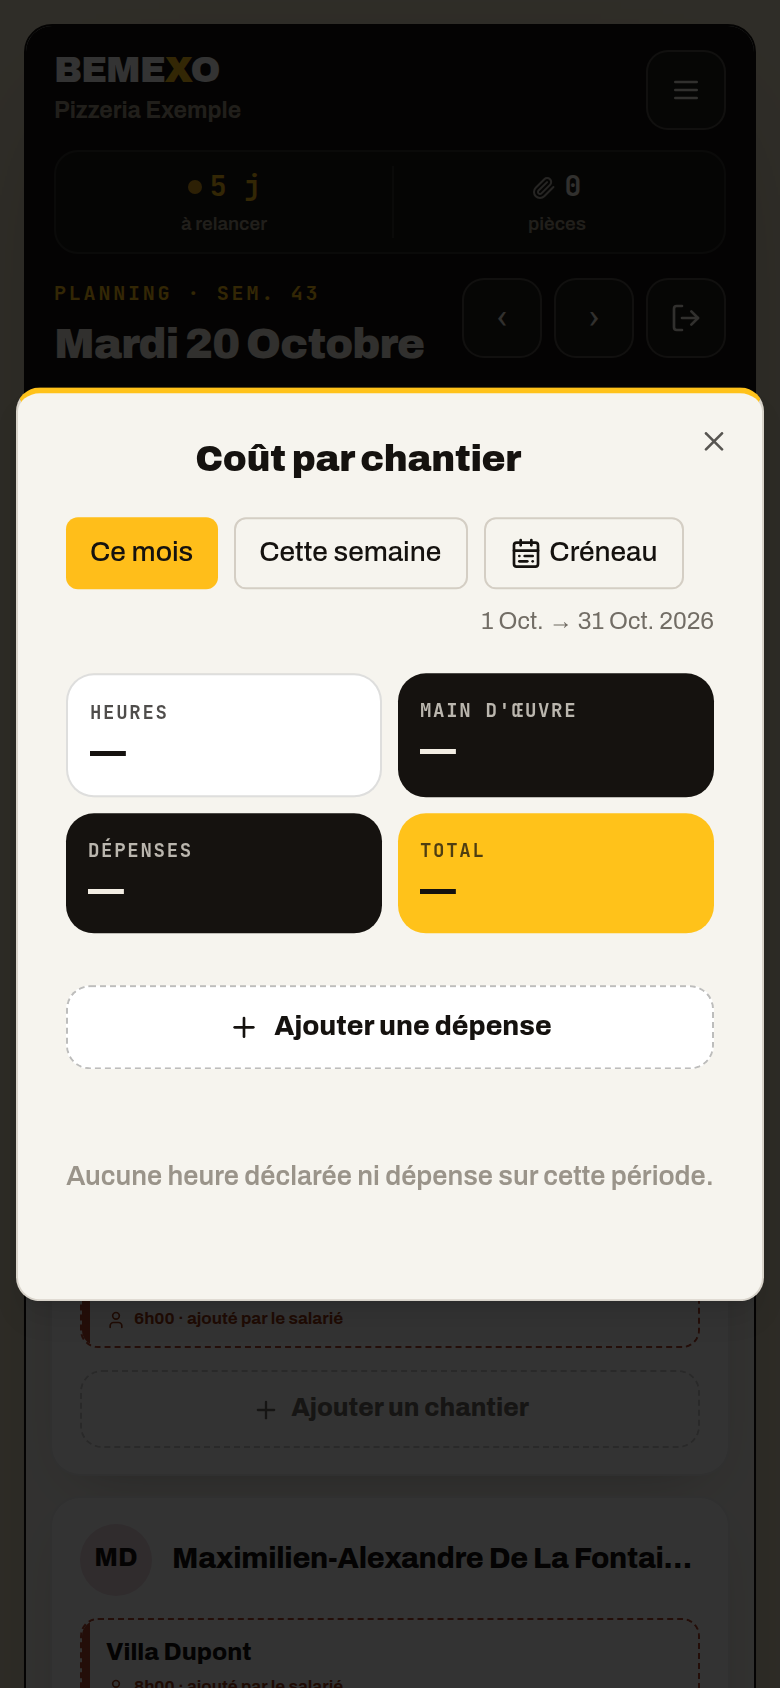
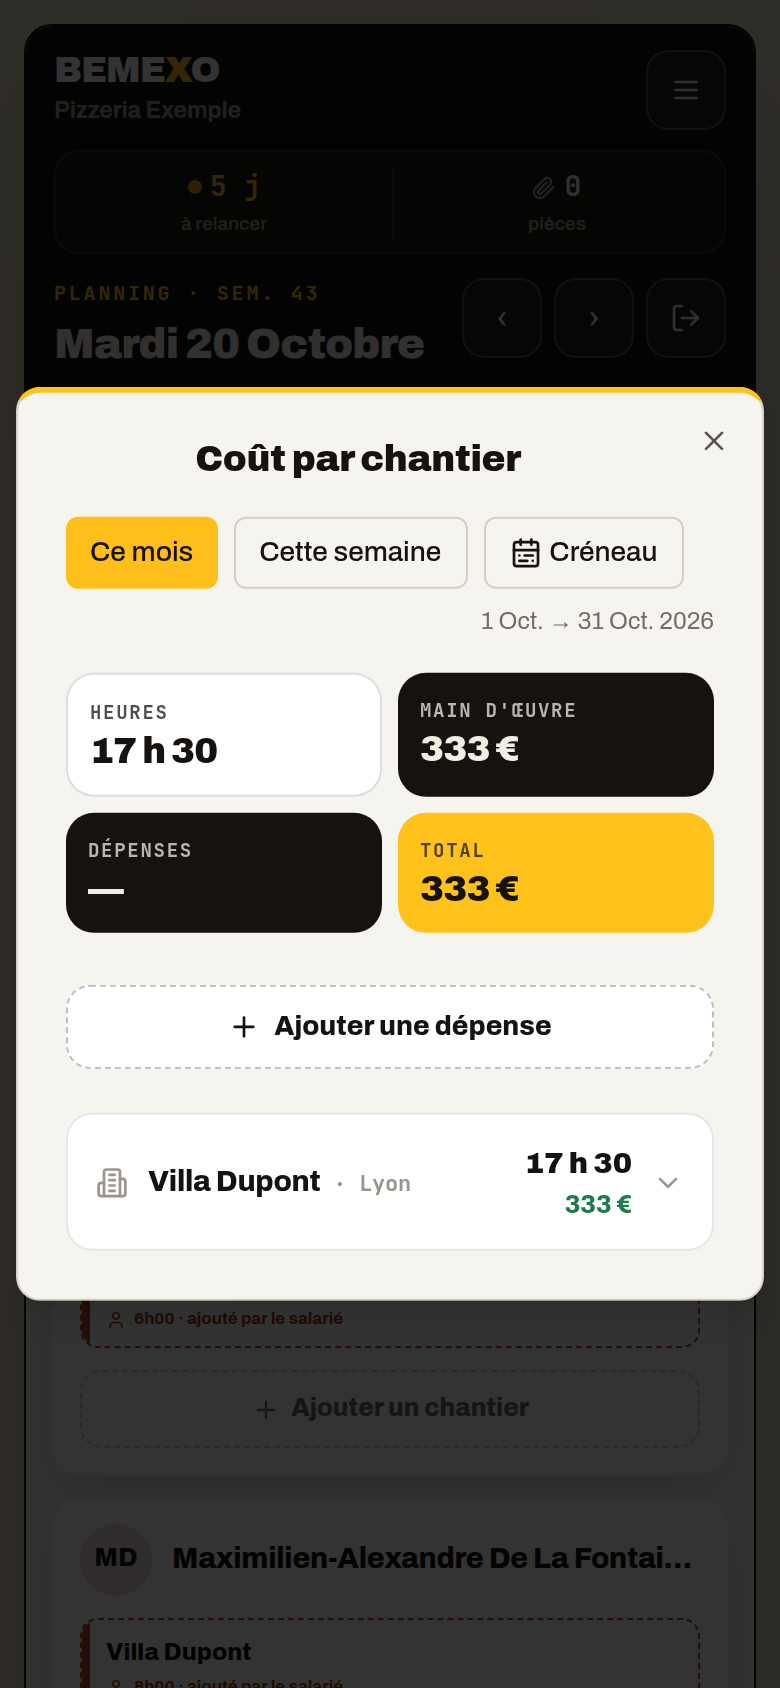
Budgets et doc remesurés après la fusion ; test de l'assistant et des coûts corrigés
Mesure du build fusionné (Next 14.2.33) : /admin 351 kB (350 avant la fusion),
/poseur 329 kB (328) ; les autres routes et le partagé (88.5) ne bougent pas.
Le lot 14 et les états d'attente ajoutent 1 kB à chacune : mesure et budget
suivent la règle « mesure arrondie + 10 » (361 et 339). Les budgets tiennent
(npm run budget : tous OK). L'objectif de 350 kB pour /admin est manqué de
1 kB (affiché, non bloquant) ; la doc le dit.

La base integration/bemexo-ia seule, construite de la même façon, donne
766 / 544 / 87.9 : le tableau avant / après reste comparable.

Test navigateur : le panneau de l'assistant n'est pas un role=dialog, il est
reconnu par son texte ; le délai après la fermeture du menu évite un double
clic. La capture « Coûts » est reprise avec des heures fictives (17 h 30,
333 €) au lieu de tirets.

Claude-Session: https://claude.ai/code/session_01UjXHEzdjb9t6bteo8SrVhu

diff --git a/docs/site-rapide-1.md b/docs/site-rapide-1.md
@@ -1,7 +1,7 @@
 # Site rapide 1 : Excel et PDF au clic, fenêtres à l'ouverture, cache long, budgets de poids
 
 Aucune fonctionnalité nouvelle, aucune migration, aucune fonction edge, aucun réglage de l'IA.
-Le site pèse moins au premier chargement : `/admin` passe de **766 à 350 kB** et `/poseur` de **544 à 328 kB**
+Le site pèse moins au premier chargement : `/admin` passe de **766 à 351 kB** et `/poseur` de **544 à 329 kB**
 (JavaScript compressé, colonne « First Load JS » de `next build`).
 
 ## Ce qui change
@@ -34,8 +34,8 @@ Mesures de cette machine (`next build`, Next 14.2.33), un build après chaque é
 
 | Route | Audit d'origine | Avant le lot | Après V1 (Excel/PDF) | **Après V1 + V2 (final)** | Budget | Objectif du plan |
 |---|---|---|---|---|---|---|
-| `/admin` | 722 | 766 | 489 | **350** | 360 | 350 |
-| `/poseur` | 487 | 544 | 410 | **328** | 338 | 300 |
+| `/admin` | 722 | 766 | 489 | **351** | 361 | 350 |
+| `/poseur` | 487 | 544 | 410 | **329** | 339 | 300 |
 | `/borne` | 161 | 163 | 163 | 164 | 169 | 170 |
 | `/pointer` | 142 | 146 | 146 | 146 | 151 | 170 |
 | `/connexion` | 149 | 150 | 150 | 150 | 155 | 150 |
@@ -49,9 +49,11 @@ Mesures de cette machine (`next build`, Next 14.2.33), un build après chaque é
 
 n/m = non mesuré à l'audit. Journaux : `build-avant.log`, `build-v1.log`, `build-final.log` (notes jetables).
 
+La colonne « final » est mesurée après la fusion de `integration/bemexo-ia` (lot 14, enregistreur vidéo) et des corrections de relecture (états d'attente des onglets, nouvelle tentative) : `/admin` 350 → 351 et `/poseur` 328 → 329 par rapport au build d'avant la fusion, les autres routes ne bougent pas. La base `integration/bemexo-ia` seule, mesurée de la même façon, donne les mêmes chiffres « avant » à 0,1 kB près (766 / 544, partagé 87.9).
+
 - **Sorties du premier chargement de `/admin`** : `xlsx` ≈ 139 kB, `jsPDF` et ses aides ≈ 105 kB, `jspdf-autotable` (une partie de 10 kB), le code des fenêtres et de l'assistant.
 - Le JavaScript partagé grossit de 0,7 kB (redécoupage de webpack) : toutes les pages le portent, d'où +0,5 à +0,7 kB sur les routes qui n'ont pas bougé.
-- **Cibles du plan** : `/admin` ≤ 350 kB est atteinte. `/poseur` ≤ 300 kB ne l'est pas (328) : `components/poseur-day.tsx` (lot 29) importe encore `ChantierDocuments` en statique, et `lib/assistant-actions` reste lié à l'assistant. Gain restant à prendre dans un lot suivant. `/connexion` et `/support` sont au bord de la cible « pages publiques ≤ 150 » : budget 155.
+- **Cibles du plan** : `/admin` ≤ 350 kB est manquée de 1 kB (351 après la fusion du lot 14 ; objectif affiché, non bloquant : le budget est à 361). `/poseur` ≤ 300 kB ne l'est pas (329) : `components/poseur-day.tsx` (lot 29) importe encore `ChantierDocuments` en statique, et `lib/assistant-actions` reste lié à l'assistant. Gain restant à prendre dans un lot suivant. `/connexion` et `/support` sont au bord de la cible « pages publiques ≤ 150 » : budget 155.
 - `/apercu/cout-salarie` importe `SET_CSS` de `company-settings` : cette page de démonstration reste lourde (212 kB).
 - `node_modules` de la machine de développement a `xlsx` 0.18.5 alors que le lock demande 0.20.3 ; `xlsx` quittant le premier chargement, l'écart est négligeable, mais les budgets sont à re-contrôler sur la CI / la préview.
 
@@ -88,6 +90,6 @@ npm run test:budget
 ## Tests
 
 - `npm run test:budget` : analyse du tableau de `next build`, dépassements, avertissements, route inconnue, groupe `/apercu/*`, et contrôle statique de `public/_headers`.
-- `npm run test:site-rapide-ecrans` (après `npm run build`, sur les vraies pages avec une base simulée) : rien de lourd au chargement ni au repos, chunks à l'ouverture du menu d'export, vrais fichiers PDF / Excel / CSV / pièce jointe du comptable, verrouillage après le fichier, aucune écriture si l'outil ne charge pas, fenêtres sans clignotement ni téléchargement de plus à la 2ᵉ ouverture, onglets salarié, réseau coupé après le repos, chunk de fenêtre bloqué (message puis réessai), fenêtres du menu ☰ à 390 px sans clignoter ni déborder, police Archivo chargée.
+- `npm run test:site-rapide-ecrans` (après `npm run build`, sur les vraies pages avec une base simulée) : rien de lourd au chargement ni au repos, chunks à l'ouverture du menu d'export, vrais fichiers PDF / Excel / CSV / pièce jointe du comptable, verrouillage après le fichier, aucune écriture si l'outil ne charge pas, fenêtres sans clignotement ni téléchargement de plus à la 2ᵉ ouverture, onglets salarié, réseau coupé après le repos, chunk de fenêtre bloqué (message puis réessai), onglet dont le code tarde (blocs gris), onglet en échec puis nouvelle tentative (retour du réseau, retour sur l'onglet), assistant en échec de fond (aucun message avant qu'on l'ouvre), fenêtres du menu ☰ à 390 px sans clignoter ni déborder (Coûts avec des heures fictives), police Archivo chargée.
 
-Captures à 390 px : `docs/captures-site-rapide-1/` (Réglages, Coûts, fiche salarié et menu Exporter côté bureau ; Mon mois et Mes congés hors ligne côté salarié).
+Captures à 390 px : `docs/captures-site-rapide-1/` (Réglages, Coûts avec des heures fictives, fiche salarié et menu Exporter côté bureau ; Mon mois et Mes congés hors ligne côté salarié).
